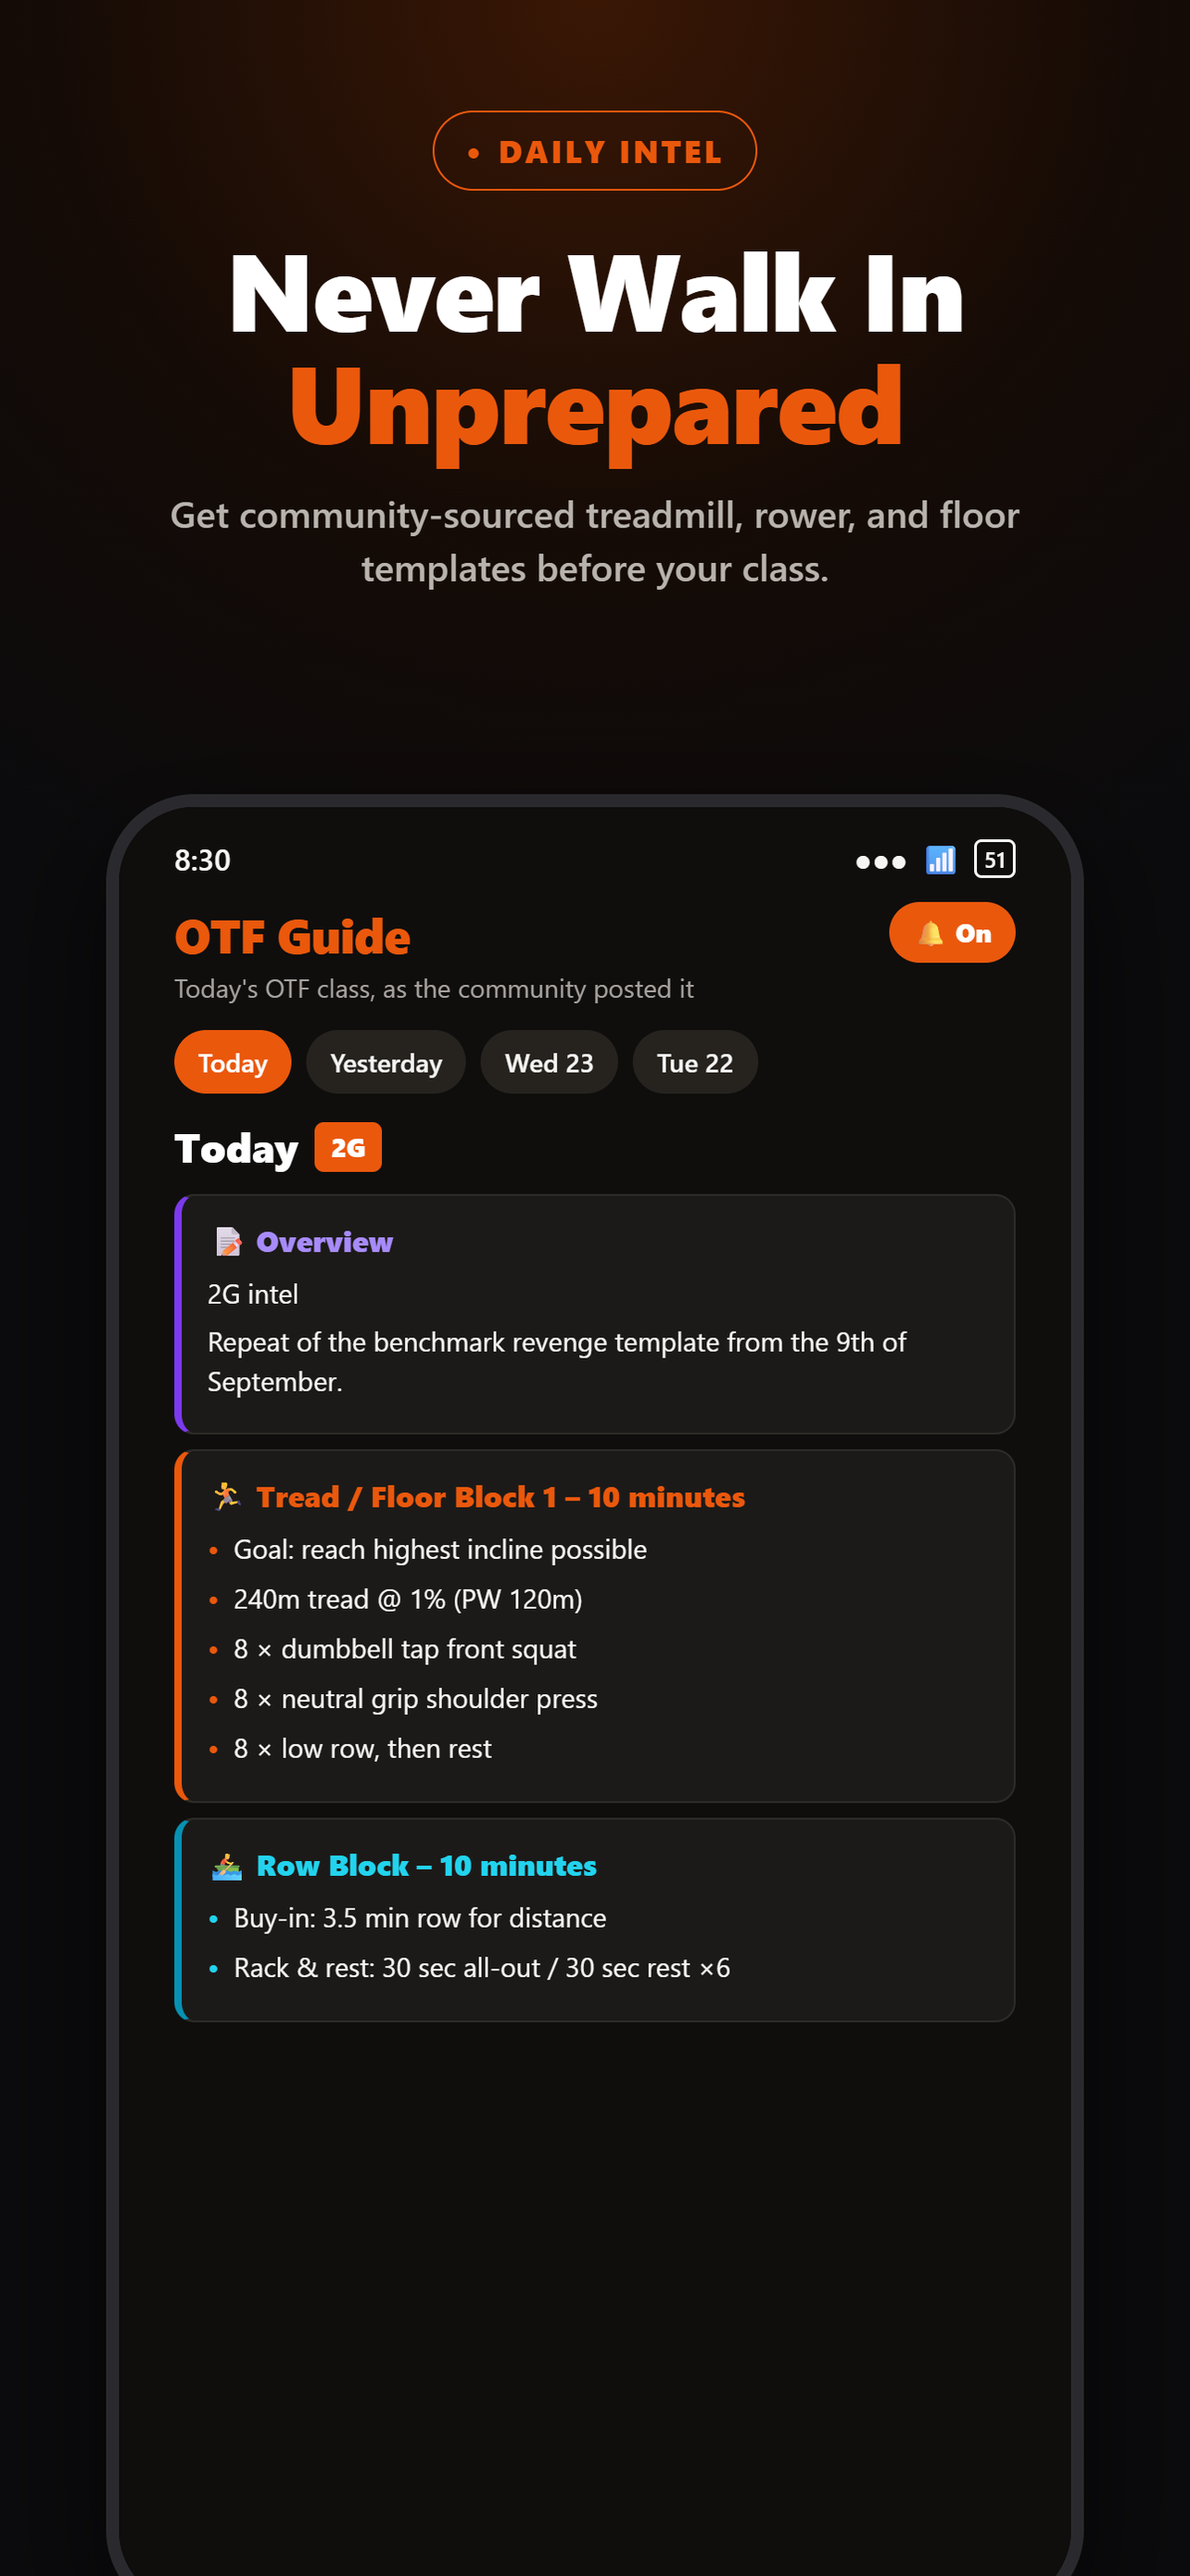
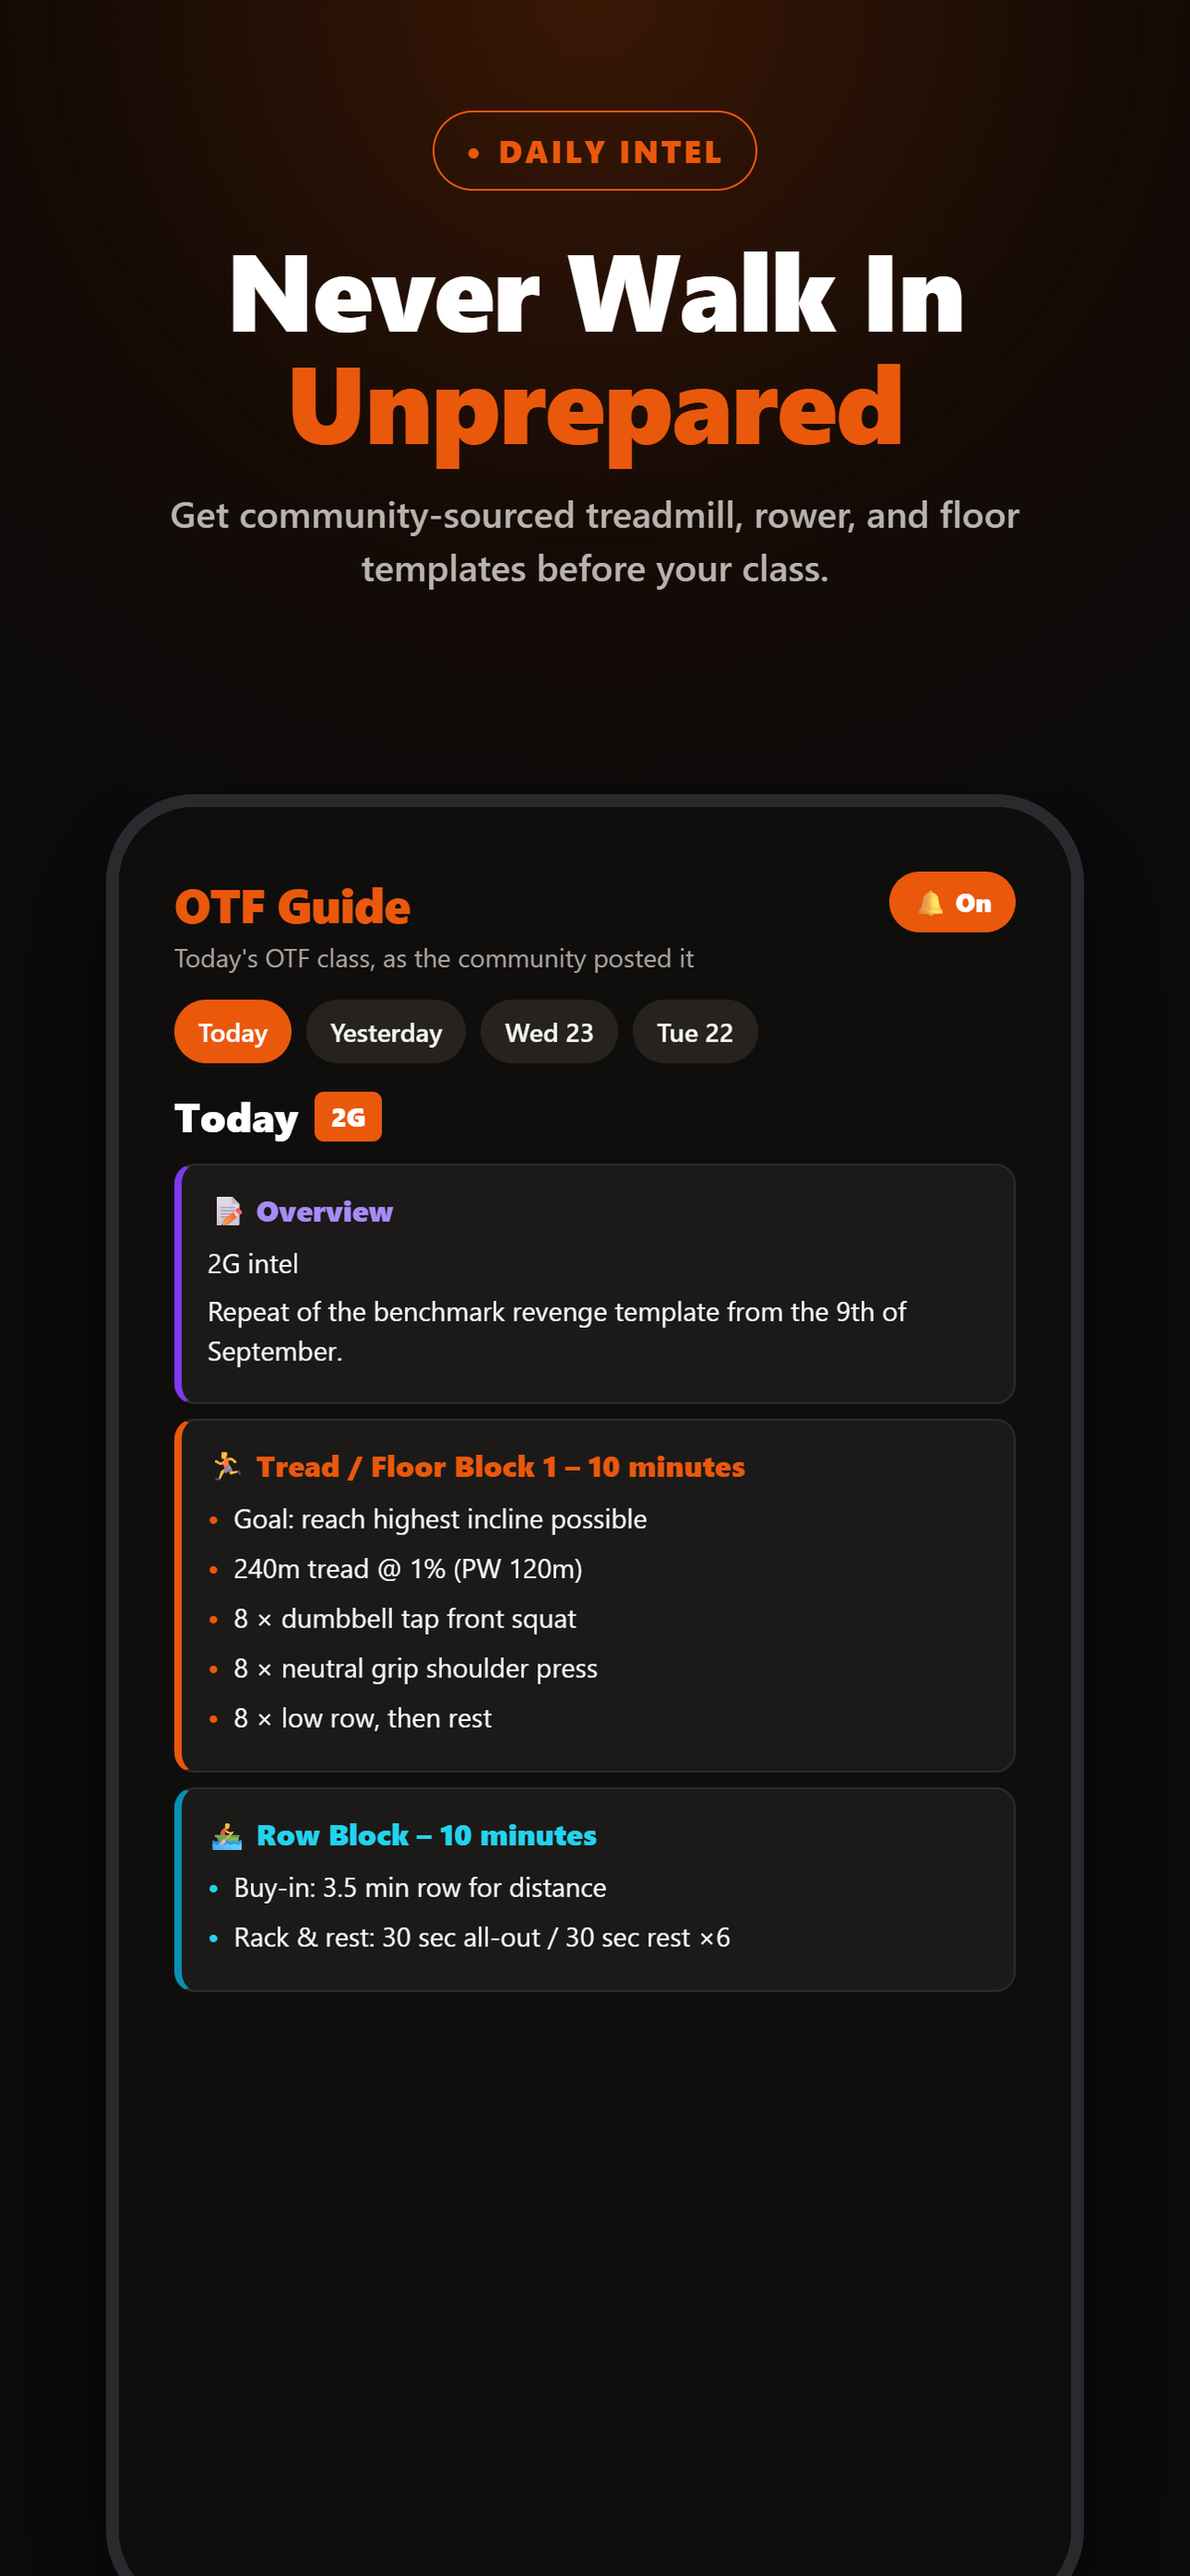
Fix App Review issues: past-day errors + non-iOS status bar
Guideline 2.1: server now pre-caches the last 7 days every 10 min and
serves the cached copy (never a 502) when Reddit rate-limits, so tapping
a past date no longer errors. App empty state reworded to 'Not available
yet'.

Guideline 2.3.10: remove the fake status bar from marketing screenshots.

diff --git a/server/src/index.ts b/server/src/index.ts
@@ -49,13 +49,36 @@ async function writeState(env: Env, key: string, value: unknown) {
     .run();
 }
 
-/** Returns the cached workout for a date, fetching and caching it when missing or stale. */
+/**
+ * Returns the cached workout for a date, fetching and caching it when missing or
+ * stale. Reddit sometimes rate-limits (429) our fetches; on any fetch error we
+ * fall back to the cached copy or null and never throw, so the app shows a clean
+ * empty state instead of an error.
+ */
 async function getWorkout(env: Env, date: string): Promise<DailyWorkout | null> {
   const cached = await readState<DailyWorkout>(env, `workout:${date}`);
   if (cached && Date.now() - Date.parse(cached.fetchedAt) < WORKOUT_TTL_MS) return cached;
-  const fresh = await fetchDailyWorkout(env, date);
-  if (fresh) await writeState(env, `workout:${date}`, fresh);
-  return fresh ?? cached;
+  try {
+    const fresh = await fetchDailyWorkout(env, date);
+    if (fresh) await writeState(env, `workout:${date}`, fresh);
+    return fresh ?? cached;
+  } catch (e) {
+    console.warn(`getWorkout(${date}) fetch failed, serving cache/null: ${e instanceof Error ? e.message : e}`);
+    return cached;
+  }
+}
+
+/** Best-effort cache warming for recent days so past-day taps are served instantly. */
+async function warmRecentDays(env: Env, now: Date, days = 7) {
+  for (let i = 1; i <= days; i++) {
+    const d = new Date(now);
+    d.setDate(d.getDate() - i);
+    const date = `${d.getFullYear()}-${String(d.getMonth() + 1).padStart(2, '0')}-${String(d.getDate()).padStart(2, '0')}`;
+    const cached = await readState<DailyWorkout>(env, `workout:${date}`);
+    if (cached && Date.now() - Date.parse(cached.fetchedAt) < WORKOUT_TTL_MS) continue;
+    await getWorkout(env, date); // caches on success, swallows errors
+    await new Promise((r) => setTimeout(r, 1500)); // gentle on Reddit
+  }
 }
 
 async function deliver(env: Env, current: Current, now: Date) {
@@ -86,17 +109,24 @@ async function deliver(env: Env, current: Current, now: Date) {
 
 export async function runCheck(env: Env, now = new Date()) {
   const date = await latestDailyDate(env);
-  if (!date) return;
-  const workout = await getWorkout(env, date);
-  if (!workout || !workout.posts.length) return;
-
-  let current = await readState<Current>(env, 'current');
-  if (current?.date !== date) {
-    current = { date, summary: workoutSummary(workout.posts[0].body), foundAt: now.toISOString() };
-    await writeState(env, 'current', current);
-    console.log(`New workout detected for ${date}`);
+  if (!date) {
+    await warmRecentDays(env, now);
+    return;
   }
-  await deliver(env, current, now);
+  const workout = await getWorkout(env, date);
+
+  if (workout && workout.posts.length) {
+    let current = await readState<Current>(env, 'current');
+    if (current?.date !== date) {
+      current = { date, summary: workoutSummary(workout.posts[0].body), foundAt: now.toISOString() };
+      await writeState(env, 'current', current);
+      console.log(`New workout detected for ${date}`);
+    }
+    await deliver(env, current, now);
+  }
+
+  // Keep the last week warm so past-day taps are served from cache, not a live fetch.
+  await warmRecentDays(env, now);
 }
 
 async function handleDevices(request: Request, env: Env): Promise<Response> {
@@ -150,11 +180,9 @@ export default {
     if (url.pathname === '/workout' && request.method === 'GET') {
       const date = url.searchParams.get('date') ?? '';
       if (!/^\d{4}-\d{2}-\d{2}$/.test(date)) return json({ error: 'date=YYYY-MM-DD required' }, 400);
-      try {
-        return json({ workout: await getWorkout(env, date) });
-      } catch (e) {
-        return json({ error: e instanceof Error ? e.message : 'fetch failed' }, 502);
-      }
+      // getWorkout never throws; a missing day returns { workout: null } so the
+      // app shows a friendly empty state rather than an error.
+      return json({ workout: await getWorkout(env, date) });
     }
     if (url.pathname === '/devices' && (request.method === 'POST' || request.method === 'DELETE')) {
       return handleDevices(request, env);

diff --git a/store-assets/marketing.html b/store-assets/marketing.html
@@ -29,7 +29,7 @@
     width:1060px; height:1980px; background:#000; border-radius:96px;
     border:14px solid #2a2a2e; box-shadow:0 40px 120px rgba(0,0,0,.6); overflow:hidden;
   }
-  .app { position:absolute; inset:0; background:#0f0e0d; padding:0 40px; }
+  .app { position:absolute; inset:0; background:#0f0e0d; padding:54px 40px 0; }
   .statusbar { display:flex; justify-content:space-between; align-items:center; padding:34px 20px 10px; font-size:32px; font-weight:600; color:#f5f5f4; }
   .statusbar .r { display:flex; gap:14px; align-items:center; }
   .batt { border:3px solid #f5f5f4; border-radius:8px; padding:2px 8px; font-size:24px; }
@@ -83,7 +83,6 @@
       <div class="sub">Get community-sourced treadmill, rower, and floor templates before your class.</div>
     </div>
     <div class="phone"><div class="app">
-      <div class="statusbar"><span>8:30</span><span class="r"><span>●●●</span><span>📶</span><span class="batt">51</span></span></div>
       <div class="apphead">
         <div class="t"><div class="appname">OTF Guide</div><div class="appsub">Today's OTF class, as the community posted it</div></div>
         <div class="onpill">🔔 On</div>
@@ -116,7 +115,6 @@
       <div class="sub">Scroll back through the week to catch up or see what's coming.</div>
     </div>
     <div class="phone"><div class="app">
-      <div class="statusbar"><span>8:30</span><span class="r"><span>●●●</span><span>📶</span><span class="batt">51</span></span></div>
       <div class="apphead">
         <div class="t"><div class="appname">OTF Guide</div><div class="appsub">Today's OTF class, as the community posted it</div></div>
         <div class="onpill">🔔 On</div>
@@ -146,7 +144,6 @@
       <div class="sub">Turn on notifications and get the day's class the second it drops. Never walk into class unprepared.</div>
     </div>
     <div class="phone"><div class="app">
-      <div class="statusbar"><span>8:30</span><span class="r"><span>●●●</span><span>📶</span><span class="batt">51</span></span></div>
       <div class="apphead faded"><div class="t"><div class="appname">OTF Guide</div><div class="appsub">Today's OTF class</div></div></div>
       <div class="chips faded"><span class="chip sel">Today</span><span class="chip">Yesterday</span><span class="chip">Wed 23</span></div>
       <div class="dim"></div>

diff --git a/App.tsx b/App.tsx
@@ -231,8 +231,12 @@ function Home() {
         ) : !workout || !top ? (
           <Empty
             c={c}
-            title="Nothing posted yet"
-            body={daysAgo === 0 ? 'The community usually posts after the first classes. Pull down to check again.' : 'No workout was found for this day.'}
+            title={daysAgo === 0 ? 'Not posted yet' : 'Not available yet'}
+            body={
+              daysAgo === 0
+                ? "Today's workout usually goes up after the first classes. Pull down to check again."
+                : "The workout for this day isn't available yet. Pull down to try again."
+            }
           />
         ) : (
           <>
